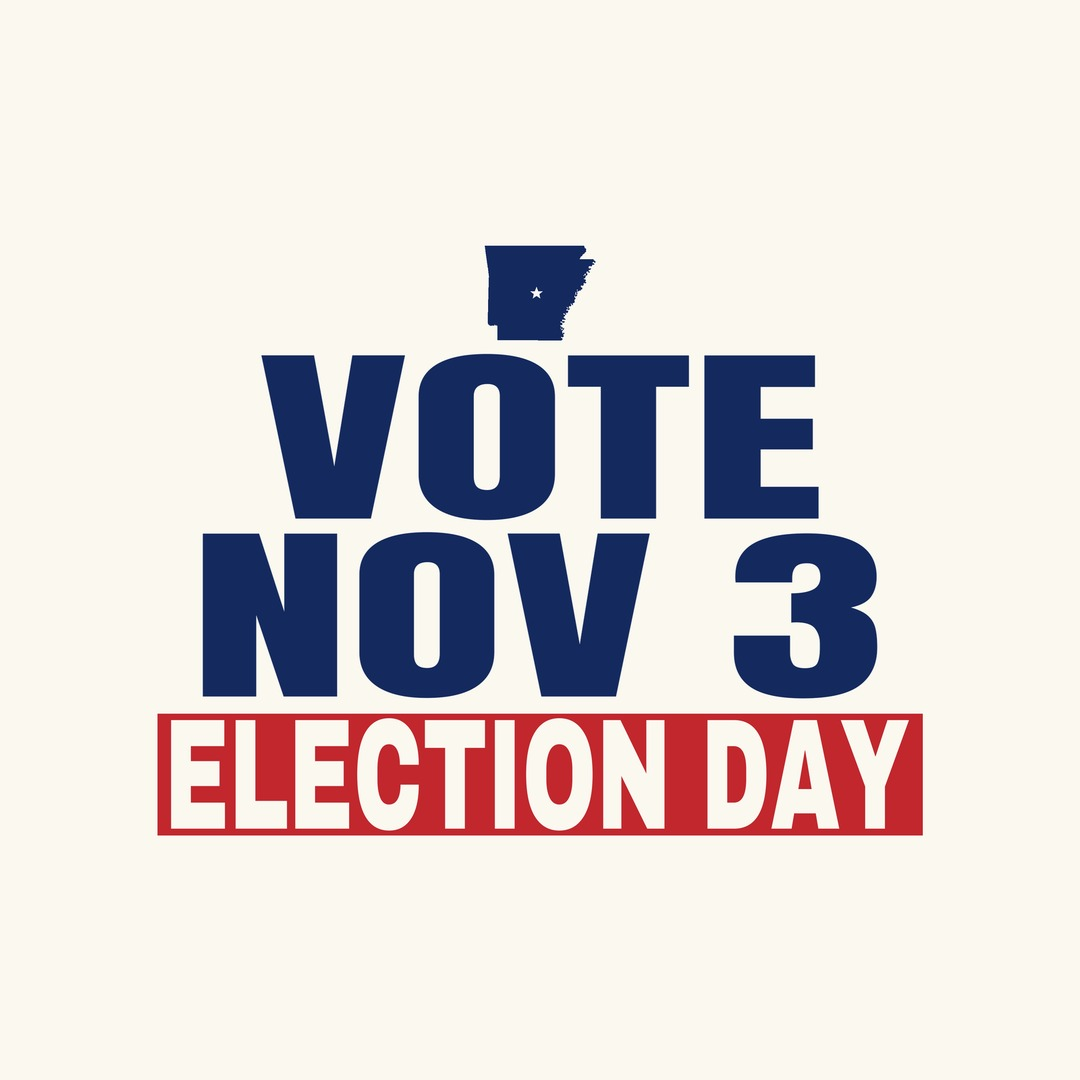
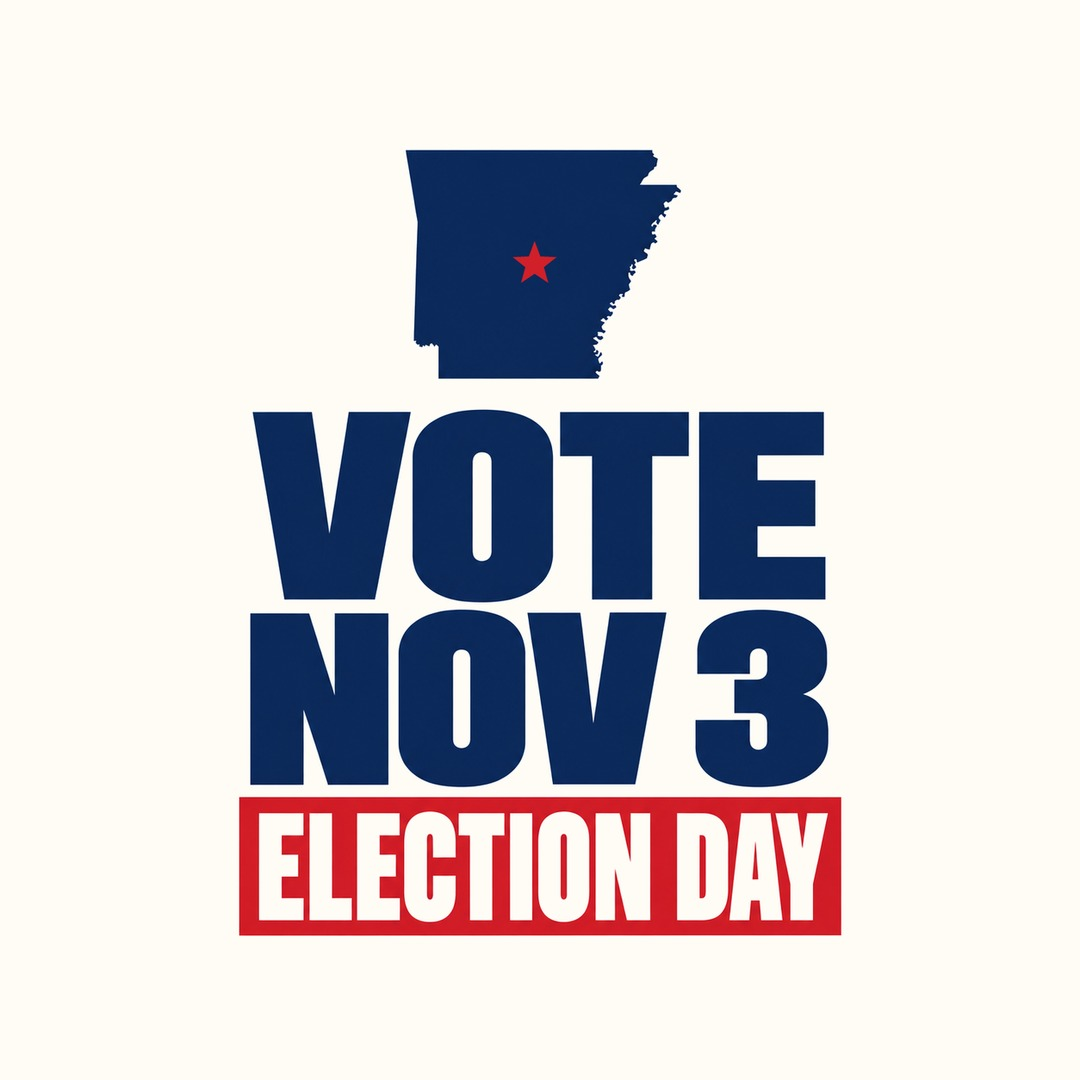
Arkansas: 10 new ready-mades from Codex; retire the earlier set
Claude-Session: https://claude.ai/code/session_01U4jJBSt3CnGjJYrtPzNn5q

Changed region(s): [[0.1222, 0.1222, 0.8556, 0.8861]]

diff --git a/site/index.php b/site/index.php
@@ -83,7 +83,7 @@ function vote_files( $abbr ) {
 
 // The state hero shows one standout ready-made, tilted (October 20, Garrett): the design named here,
 // or the first in the set. Numbers match <abbr>-vote-N.jpg.
-const VOTE_HERO = array( 'MS' => 5, 'MI' => 7, 'ID' => 7, 'NJ' => 5, 'OR' => 5, 'MN' => 6, 'NE' => 6, 'AL' => 6, 'AZ' => 6, 'CT' => 7, 'DE' => 5, 'GA' => 5, 'FL' => 5, 'HI' => 6, 'IL' => 8 );
+const VOTE_HERO = array( 'MS' => 5, 'MI' => 7, 'ID' => 7, 'NJ' => 5, 'OR' => 5, 'MN' => 6, 'NE' => 6, 'AL' => 6, 'AZ' => 6, 'CT' => 7, 'DE' => 5, 'GA' => 5, 'FL' => 5, 'HI' => 6, 'IL' => 8, 'AR' => 6 );
 function vote_hero_file( $abbr ) {
 	$n = VOTE_HERO[ $abbr ] ?? 0;
 	$k = strtolower( $abbr );
